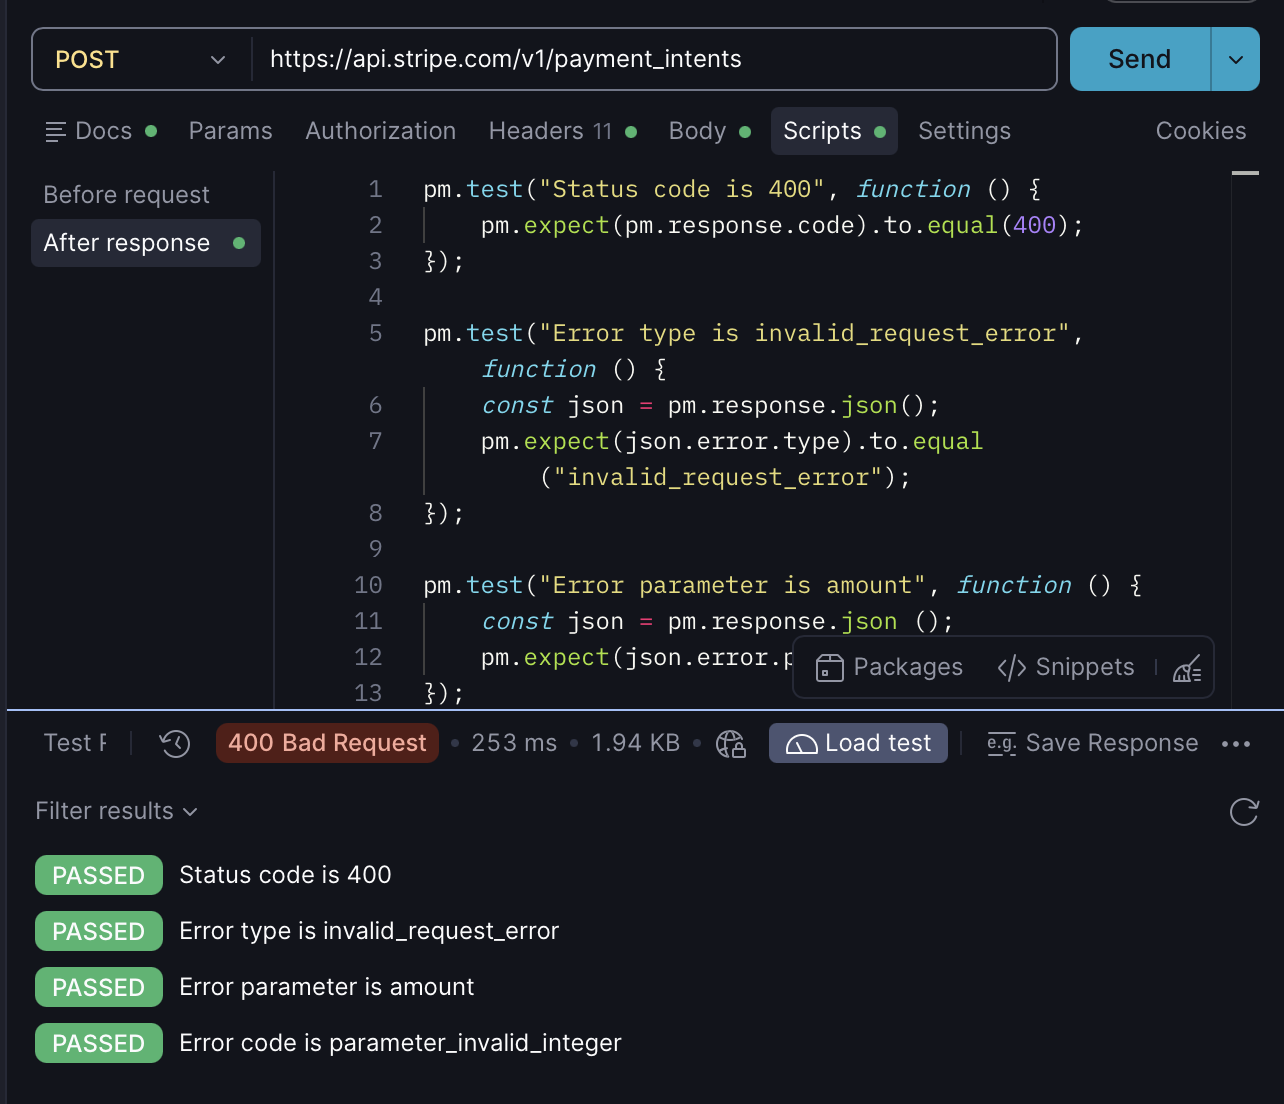
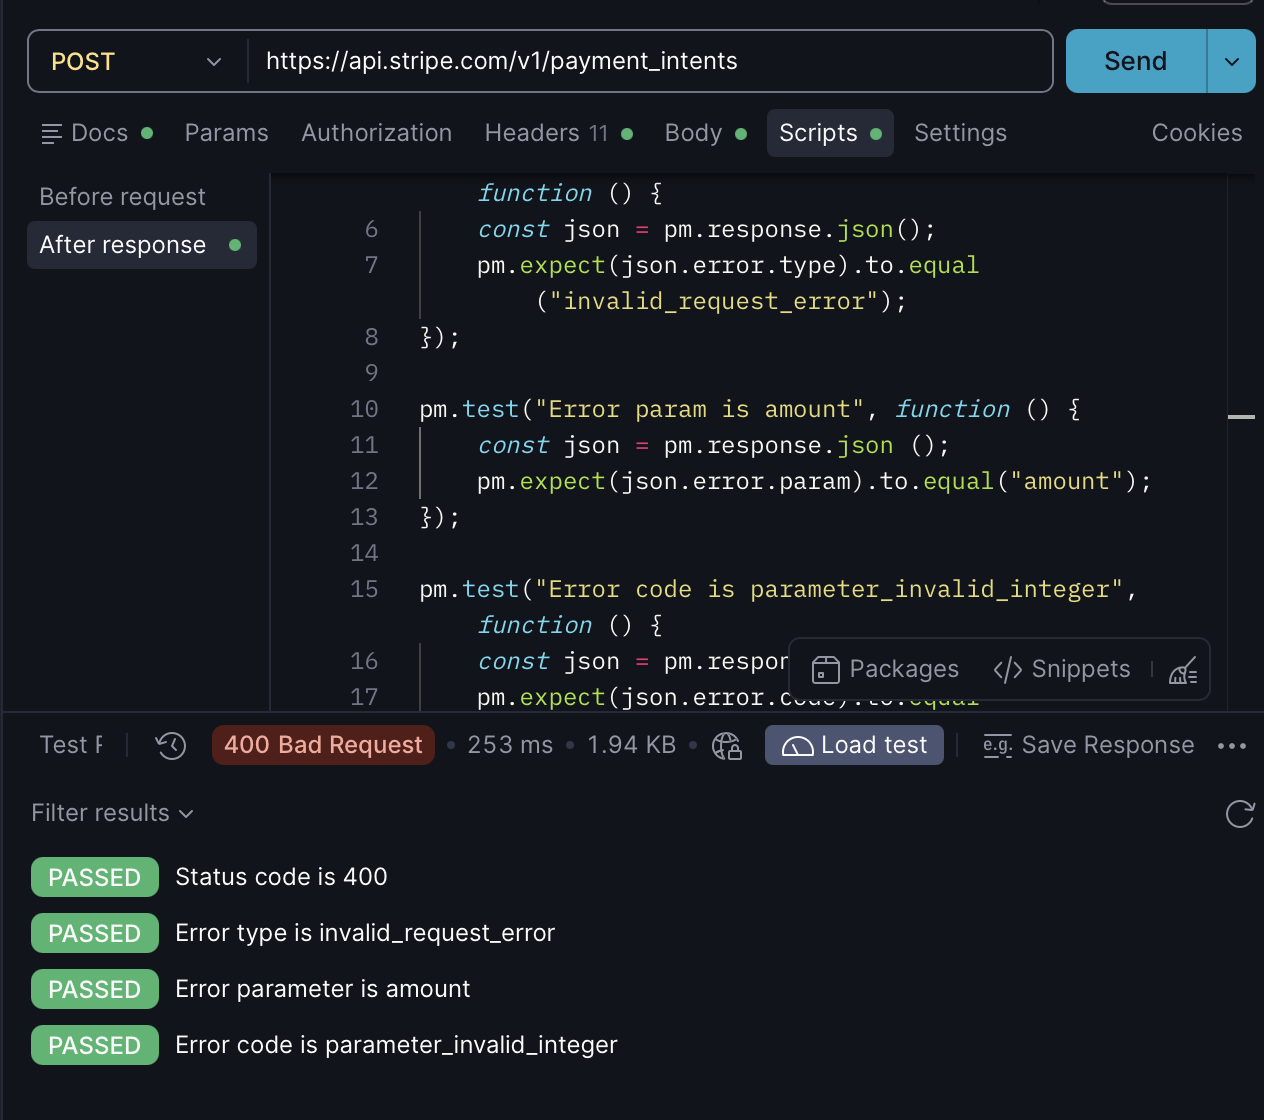
docs(stripe-automation): add TC-ER-003/004 automation results, update totals to 14 tests and 55 assertions

diff --git a/stripe/stripe-automation.html b/stripe/stripe-automation.html
@@ -66,11 +66,11 @@
           </div>
           <div>
             <span class="metadata-label">Total Automated</span>
-            <span class="metadata-value">12 test cases · 47 assertions</span>
+            <span class="metadata-value">14 test cases · 55 assertions</span>
           </div>
           <div>
             <span class="metadata-label">Passed</span>
-            <span class="metadata-value" style="color:#22c55e;">12</span>
+            <span class="metadata-value" style="color:#22c55e;">14</span>
           </div>
           <div>
             <span class="metadata-label">Failed</span>
@@ -105,9 +105,9 @@
         --env-var "secret_key=sk_test_…"</pre>
         <div class="evidence-area">
           <div class="evidence-box">
-            <h4>Newman Summary — 47 assertions, 0 failed</h4>
+            <h4>Newman Summary — 55 assertions, 0 failed</h4>
             <img src="screenshots_stripe/newman-run.png"
-              alt="Newman run summary showing 16 requests and 47 assertions with 0 failures" class="tc-screenshot zoomable"
+              alt="Newman run summary showing 18 requests and 55 assertions with 0 failures" class="tc-screenshot zoomable"
               onclick="openModal(this.src)">
             <p class="evidence-caption"><i class="fas fa-search-plus"></i> Click to enlarge</p>
           </div>
@@ -769,6 +769,100 @@ pm.expect(json.error.message.toLowerCase()).to.include("invalid currency");
               <div class="evidence-box">
                 <h4>Test Results — 4/4 Passed</h4>
                 <img src="screenshots_stripe/tc-er-002-auto.png" alt="TC-ER-002 automation 4 tests passed" class="tc-screenshot zoomable" onclick="openModal(this.src)">
+                <p class="evidence-caption"><i class="fas fa-search-plus"></i> Click to enlarge</p>
+              </div>
+            </div>
+          </div>
+        </div>
+      </article>
+
+      <article class="report-section tc-block" id="auto-TC-ER-003">
+        <div class="tc-block-title">
+          <span class="method-pill method-post">POST</span>
+          TC-ER-003 &mdash; Invalid Amount (Negative)
+        </div>
+        <div class="tc-row-item">
+          <div class="cell cell-left">Linked Test Case</div>
+          <div class="cell cell-right"><a href="stripe-test-cases.html#TC-ER-003" class="back-link">TC-ER-003</a></div>
+        </div>
+        <div class="tc-row-item">
+          <div class="cell cell-left">Assertions</div>
+          <div class="cell cell-right">
+            <pre class="code-block">pm.test("Status code is 400", function () {
+  pm.expect(pm.response.code).to.equal(400);
+});
+pm.test("Error type is invalid_request_error", function () {
+  const json = pm.response.json();
+  pm.expect(json.error.type).to.equal("invalid_request_error");
+});
+pm.test("Error param is amount", function () {
+  const json = pm.response.json();
+  pm.expect(json.error.param).to.equal("amount");
+});
+pm.test("Error code is parameter_invalid_integer", function () {
+  const json = pm.response.json();
+  pm.expect(json.error.code).to.equal("parameter_invalid_integer");
+});</pre>
+          </div>
+        </div>
+        <div class="tc-row-item">
+          <div class="cell cell-left">Result</div>
+          <div class="cell cell-right"><span class="status-badge verified">4 / 4 Passed</span></div>
+        </div>
+        <div class="tc-row-item">
+          <div class="cell cell-left">Evidence</div>
+          <div class="cell cell-right">
+            <div class="evidence-area">
+              <div class="evidence-box">
+                <h4>Test Results — 4/4 Passed</h4>
+                <img src="screenshots_stripe/tc-er-003-auto.png" alt="TC-ER-003 automation 4 tests passed" class="tc-screenshot zoomable" onclick="openModal(this.src)">
+                <p class="evidence-caption"><i class="fas fa-search-plus"></i> Click to enlarge</p>
+              </div>
+            </div>
+          </div>
+        </div>
+      </article>
+
+      <article class="report-section tc-block" id="auto-TC-ER-004">
+        <div class="tc-block-title">
+          <span class="method-pill method-post">POST</span>
+          TC-ER-004 &mdash; Missing Required Field (Currency)
+        </div>
+        <div class="tc-row-item">
+          <div class="cell cell-left">Linked Test Case</div>
+          <div class="cell cell-right"><a href="stripe-test-cases.html#TC-ER-004" class="back-link">TC-ER-004</a></div>
+        </div>
+        <div class="tc-row-item">
+          <div class="cell cell-left">Assertions</div>
+          <div class="cell cell-right">
+            <pre class="code-block">pm.test("Status code is 400", function () {
+  pm.expect(pm.response.code).to.equal(400);
+});
+pm.test("Error type is invalid_request_error", function () {
+  const json = pm.response.json();
+  pm.expect(json.error.type).to.equal("invalid_request_error");
+});
+pm.test("Error param is currency", function () {
+  const json = pm.response.json();
+  pm.expect(json.error.param).to.equal("currency");
+});
+pm.test("Error code is parameter_missing", function () {
+  const json = pm.response.json();
+  pm.expect(json.error.code).to.equal("parameter_missing");
+});</pre>
+          </div>
+        </div>
+        <div class="tc-row-item">
+          <div class="cell cell-left">Result</div>
+          <div class="cell cell-right"><span class="status-badge verified">4 / 4 Passed</span></div>
+        </div>
+        <div class="tc-row-item">
+          <div class="cell cell-left">Evidence</div>
+          <div class="cell cell-right">
+            <div class="evidence-area">
+              <div class="evidence-box">
+                <h4>Test Results — 4/4 Passed</h4>
+                <img src="screenshots_stripe/tc-er-004-auto.png" alt="TC-ER-004 automation 4 tests passed" class="tc-screenshot zoomable" onclick="openModal(this.src)">
                 <p class="evidence-caption"><i class="fas fa-search-plus"></i> Click to enlarge</p>
               </div>
             </div>
